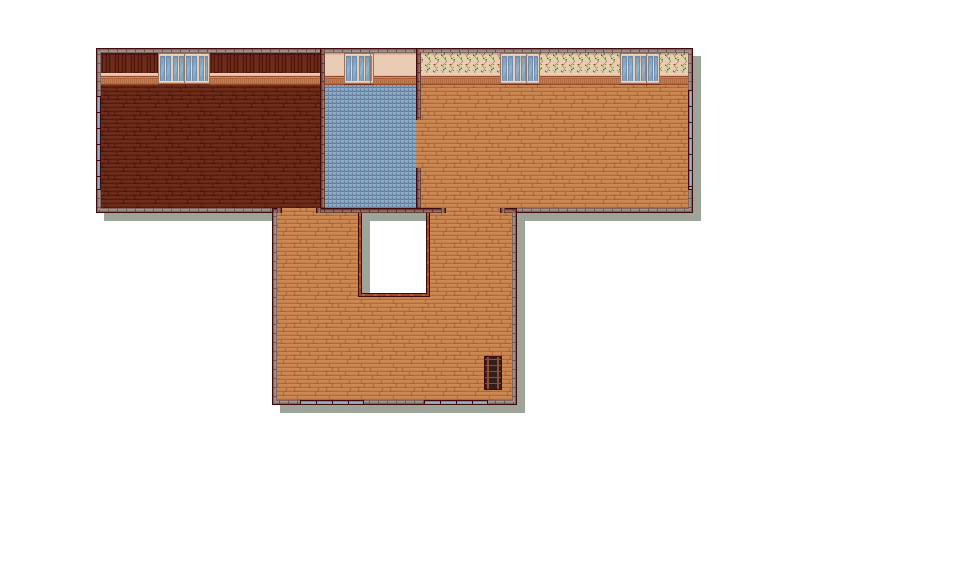
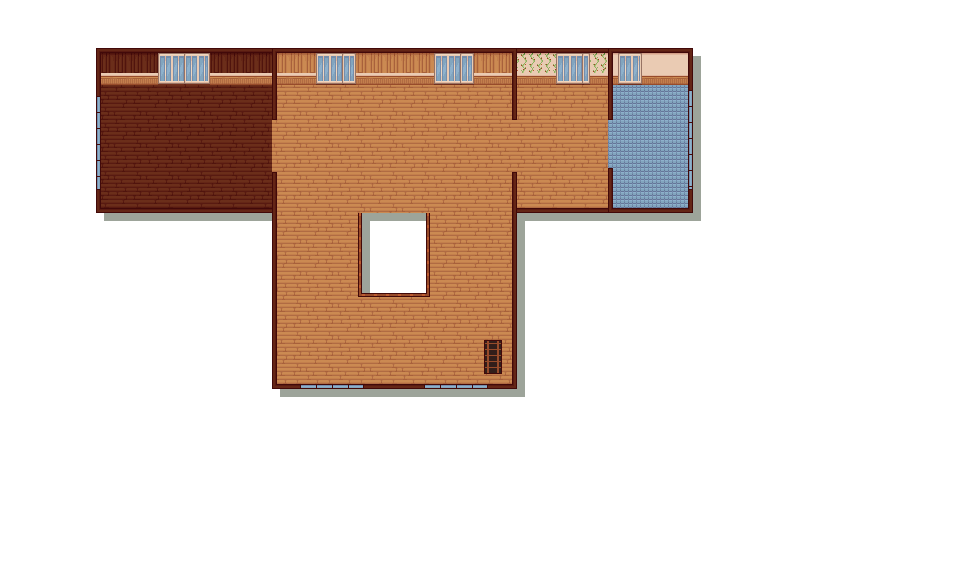
Put both floors on one grid, with the pack's own walls
The walls didn't make sense: the back row's partitions, the front row's
and upstairs' each stood on different lines, so upper walls stood over
the middle of rooms below; doorways through a back wall were floor
strips with stone pillars down the face; and the walls were grey and
brown stone bands with mortar ticks, not Cosy Cabin's.

Now every wall sits on one grid (columns 6, 17, 32, 43; rows 3, 13, 24)
and upstairs walls stand on ground walls:

- Ground: café, kitchen and counter, cat lounge across the back; craft
  room (with its bay), entrance hall (no longer jutting) and terrace
  across the front.
- Upstairs, over the back: library over the café, an open landing over
  the kitchen and hall (the stairwell and attic ladder), and the bedroom
  over the lounge with the ensuite partitioned off it. The craft room
  and terrace stay single-storey.

Walls are the pack's dark wood wall (sampled from its tile, outlined on
both edges). Doorways cut through cleanly and are capped with the wall's
outline, and every room has a back wall, so none meets a bare edge. The
furniture is re-laid for the rooms that moved; check() finds nothing
standing in furniture or off a floor.

Claude-Session: https://claude.ai/code/session_01TKgtJu9LeJJuw2MABkgriD

Changed region(s): [[0.0938, 0.0625, 0.7188, 0.7188]]

diff --git a/catio/tools/manor.py b/catio/tools/manor.py
@@ -1,19 +1,26 @@
-"""The manor's floor plans: two floors of a refurbished stone house, drawn from Cosy Cabin alone (committable).
+"""The manor's floor plans: two floors of a refurbished house, drawn from Cosy Cabin alone (committable).
 
-Layout, in 16 px tiles (the page's MANOR block carries these numbers; see furniture.py):
+Both floors stand on one grid, in 16 px tiles (the page's MANOR block carries these numbers; see furniture.py):
 
-    ground (the cat café)   café | kitchen & counter | cat lounge
-                            craft room (bay window) | entrance hall (the stair) | terrace (glazed)   catio, outdoors
-    upper (her quarters)    library (the brain) | ensuite | bedroom
-                                          landing (over the hall)
+    columns  x = 6 | 17 | 32 | 43        rows  y = 3 | 13 | 24
 
-It runs from public to private, the way houses and game levels both do. The front door opens into the hall, with
-the counter straight ahead (where you order), the café to the left and the cat lounge to the right. The craft room
-is the Montfortoise shop, so its bay window is its shop window on the drive, at the bottom left. The terrace is the
-café's glass verrière, and the catio is fenced against it at the bottom right, reached by the cat flap. The one
-stair rises from the middle of the hall to the landing, in the same place on both floors, so going up never moves
-the camera. Upstairs covers the back range and the landing. The craft room and the terrace are single-storey
-wings, and the page shows the ground floor faded under them.
+    ground (the cat café)   café         | kitchen & counter | cat lounge
+                            craft room   | entrance hall     | terrace (glazed)     catio, outdoors
+                            (bay window)   (the stair, the front door)
+    upper (her quarters)    library      | landing           | bedroom | ensuite
+                                           (over the hall)
+
+Every upstairs wall stands on a ground-floor wall, except the ensuite's, a light partition inside the bedroom's
+bay. It runs from public to private, the way houses and game levels both do. The front door opens into the hall,
+with the counter straight ahead (where you order) behind the stair, the shop's craft room on one side and the
+terrace on the other. The craft room's bay window is its shop window on the drive, at the bottom left; the catio is
+fenced against the terrace at the bottom right, reached by the cat flap. The one stair rises from the middle of the
+hall to an open landing over the kitchen, in the same place on both floors, so going up never moves the camera.
+The craft room and the terrace are single-storey wings, and the page shows the ground floor faded under them.
+
+The walls are the pack's own: its dark wood wall, a 5 px profile outlined on both edges, capped where a doorway
+opens in it. Every room has a back wall (paper, panelling or stone above a rail), so a doorway in a back wall is a
+clean cut through it.
 
 This module is the shell only: floors, back walls, walls, doorways and glass. Furniture is placed as pieces by
 the page (furniture.py).
@@ -24,27 +31,26 @@ T = 16
 FACE = 32                       # a back wall, ceiling to floor
 SIZE = (60 * T, 36 * T)         # the whole grounds, native pixels
 
-# walls: 5 px bands, outer to inner. Outside walls are the pack's grey stone, inside ones its warm stone.
-STONE_OUT = [(65, 9, 9), (121, 101, 98), (152, 134, 129), (165, 149, 143), (121, 101, 98)]
-STONE_IN = [(65, 9, 9), (102, 63, 57), (134, 98, 86), (151, 115, 100), (102, 63, 57)]
-MORTAR_OUT, MORTAR_IN = (105, 86, 83), (88, 52, 46)
+# a wall, edge to edge: Cosy Cabin's dark wood wall tile, outline, face, face, shade, outline
+WALL = [(65, 9, 9), (100, 38, 22), (100, 38, 22), (88, 26, 17), (65, 9, 9)]
+EDGE = WALL[0]
 GLASS = [(65, 9, 9), (116, 141, 172), (142, 177, 204), (130, 165, 190), (65, 9, 9)]
 WOOD = [(65, 9, 9), (107, 46, 26), (151, 75, 42), (188, 91, 48)]        # the balustrade and the attic ladder
 SASH = (946, 354, 28, 18)       # Cosy Cabin's cream sash window, on the objects sheet
 
-# key: floor, tile box (x0, y0, x1, y1), floor, back wall (None: floor to the top, as in a glass room)
+# key: floor, tile box (x0, y0, x1, y1), floor, back wall
 ROOMS = {
-    "dining":  ("ground", (6, 3, 19, 13), "wood", "paper32"),          # the café: pale boards, blue stripes
-    "kitchen": ("ground", (19, 3, 29, 13), "pink", "paper16"),         # the counter: terracotta tiles, poppy paper
-    "living":  ("ground", (29, 3, 43, 13), "wood", "paper64"),         # the cat lounge: boards, damask
+    "dining":  ("ground", (6, 3, 17, 13), "wood", "paper32"),          # the café: pale boards, blue stripes
+    "kitchen": ("ground", (17, 3, 32, 13), "pink", "paper16"),         # the counter: terracotta tiles, poppy paper
+    "living":  ("ground", (32, 3, 43, 13), "wood", "paper64"),         # the cat lounge: boards, damask
     "study":   ("ground", (6, 13, 17, 24), "wood", "stone_brown"),     # the craft room: the old brick, bay window
-    "hall":    ("ground", (17, 13, 32, 25), "stone", "stone_white"),   # stone flags, the old white stone left bare
-    "sunroom": ("ground", (32, 13, 43, 24), "sand", None),             # the terrace: sandstone under glass
-    "brain":   ("upper", (6, 3, 20, 13), "dark", "panel_dark"),        # the library: dark boards, panelled
-    "bath":    ("upper", (20, 3, 26, 13), "blue", "paper0"),           # the ensuite
-    "bedroom": ("upper", (26, 3, 43, 13), "wood", "paper48"),          # vines
+    "hall":    ("ground", (17, 13, 32, 24), "stone", "stone_white"),   # stone flags, the old white stone left bare
+    "sunroom": ("ground", (32, 13, 43, 24), "sand", "stone_white"),    # the terrace: sandstone, glass on two sides
+    "brain":   ("upper", (6, 3, 17, 13), "dark", "panel_dark"),        # the library: dark boards, panelled
+    "bedroom": ("upper", (32, 3, 38, 13), "wood", "paper48"),          # vines
+    "bath":    ("upper", (38, 3, 43, 13), "blue", "paper0"),           # the ensuite, partitioned off the bedroom
 }
-LANDING = (17, 13, 32, 25)      # upstairs over the hall: not a room, just the way between them
+LANDING = (17, 3, 32, 24)       # upstairs over the kitchen and the hall: not a room, the way between them
 BAY = (9, 24, 14, 26)           # the craft room's canted bay, merged into it
 CHAMFER = 12                    # the bay's corners, cut at 45 degrees
 CATIO = (43, 11, 57, 29)        # outdoors: decking fenced against the terrace, reached by the cat flap
@@ -54,40 +60,40 @@ FRONT_DOOR = (378, 410)         # x span in the hall's south wall
 # doorways: ("v", wall tile x, y from, y to) through a side wall; ("h", wall tile y, x from, x to) through a back wall
 DOORS = {
     "ground": [
-        ("v", 19, 120, 172),    # café <-> counter (the servery)
-        ("v", 29, 120, 172),    # counter <-> cat lounge
+        ("v", 17, 120, 172),    # café <-> kitchen (the servery)
+        ("v", 32, 120, 172),    # kitchen <-> cat lounge
         ("h", 13, 150, 196),    # café -> craft room
-        ("h", 13, 318, 350),    # hall -> counter, west of the stair
-        ("h", 13, 474, 508),    # hall -> cat lounge, east of it
+        ("h", 13, 296, 336),    # hall -> kitchen, west of the stair
+        ("h", 13, 452, 492),    # hall -> kitchen, east of it
         ("h", 13, 560, 640),    # cat lounge -> terrace, wide open
         ("v", 17, 290, 340),    # craft room <-> hall (the shop's door)
         ("v", 32, 290, 340),    # hall <-> terrace
     ],
     "upper": [
-        ("h", 13, 282, 316),    # landing -> library
-        ("h", 13, 446, 500),    # landing -> bedroom
-        ("v", 26, 120, 168),    # bedroom <-> ensuite
+        ("v", 17, 120, 172),    # landing <-> library
+        ("v", 32, 120, 172),    # landing <-> bedroom
+        ("v", 38, 120, 168),    # bedroom <-> ensuite
     ],
 }
 # glass: ("tall", x, y, w) floor-to-ceiling on a back wall; ("v", wall x, y0, y1) and ("h", wall y, x0, x1) strips
 WINDOWS = {
     "ground": [
-        ("tall", 150, 53, 60),                                  # café
-        ("tall", 360, 53, 40),                                  # the counter, over the sink
-        ("tall", 500, 53, 40), ("tall", 616, 53, 40),           # cat lounge, either side of the fireplace
+        ("tall", 156, 53, 60),                                  # café
+        ("tall", 374, 53, 40),                                  # the counter, over the sink
+        ("tall", 526, 53, 36), ("tall", 642, 53, 36),           # cat lounge, either side of the fireplace
         ("v", 6, 96, 176),                                      # café west
         ("v", 6, 250, 360),                                     # craft room west
-        ("h", 25, 300, 364), ("h", 25, 424, 488),               # hall south, either side of the front door
+        ("h", 24, 300, 364), ("h", 24, 424, 488),               # hall south, either side of the front door
         ("h", 24, 530, 680),                                    # terrace south
-        ("v", 43, 214, 290), ("v", 43, 336, 384),               # terrace east, broken by the cat flap
+        ("v", 43, 214, 290), ("v", 43, 336, 380),               # terrace east, broken by the cat flap
         ("v", 43, 90, 190),                                     # cat lounge east, over the catio
     ],
     "upper": [
         ("tall", 158, 53, 52), ("v", 6, 96, 190),               # library, between the bookcases
-        ("tall", 344, 53, 30),                                  # ensuite
-        ("tall", 500, 53, 40), ("tall", 620, 53, 40),           # bedroom
-        ("v", 43, 90, 190),                                     # bedroom east, over the catio
-        ("h", 25, 300, 364), ("h", 25, 424, 488),               # landing, over the front door
+        ("tall", 316, 53, 40), ("tall", 434, 53, 40),           # the landing's back wall
+        ("tall", 556, 53, 34),                                  # bedroom
+        ("tall", 618, 53, 24), ("v", 43, 90, 190),              # ensuite, and its window over the catio
+        ("h", 24, 300, 364), ("h", 24, 424, 488),               # landing, over the front door
     ],
 }
 CAT_FLAP = (688, 312, 328)      # x of the terrace's east wall, y span
@@ -102,7 +108,7 @@ def boxes(floor):
     """Every walled box on a floor: its rooms, and upstairs the landing."""
     out = {k: (box, fl, wall) for k, (f, box, fl, wall) in ROOMS.items() if f == floor}
     if floor == "upper":
-        out["landing"] = (LANDING, "wood", None)
+        out["landing"] = (LANDING, "wood", "panel_light")
     return out
 
 
@@ -181,14 +187,6 @@ def shell(tm, objects, ex, floor="ground"):
         t = tex[name]
         px[x, y] = t.getpixel((x % t.width, y % t.height))
 
-    def inside(x, y):
-        """Is this native pixel inside some box on this floor (walls included), or in the bay?"""
-        for box, _, _ in rooms.values():
-            X0, Y0, X1, Y1 = box_px(box)
-            if X0 <= x < X1 and Y0 <= y < Y1:
-                return True
-        return bool(bay) and in_poly(x, y, bay)
-
     # floors, and each room's back wall: paper (20 px) over a rail (12 px), or panelling/stone the full height
     for name, (box, fl, wall) in rooms.items():
         X0, Y0, X1, Y1 = box_px(box)
@@ -204,20 +202,14 @@ def shell(tm, objects, ex, floor="ground"):
                 else:
                     fill(x, y, fl)
                     floor_at[(x // T, y // T)] = fl
-    # walls: a mitred 5 px band round each box, grey stone where the other side is outdoors
+    # walls: the pack's 5 px wood wall round each box, mitred at the corners; neighbours share theirs
     for box, _, _ in rooms.values():
         X0, Y0, X1, Y1 = box_px(box)
         for x in range(X0, X1):
             for y in range(Y0, Y1):
                 d = min(x - X0, X1 - 1 - x, y - Y0, Y1 - 1 - y)
-                if d >= 5:
-                    continue
-                side = [(x - X0, (-6, 0)), (X1 - 1 - x, (6, 0)), (y - Y0, (0, -6)), (Y1 - 1 - y, (0, 6))]
-                _, (dx, dy) = min(side, key=lambda s: s[0])
-                out = not inside(x + dx, y + dy)
-                band, mortar = (STONE_OUT, MORTAR_OUT) if out else (STONE_IN, MORTAR_IN)
-                along = y if dx else x
-                px[x, y] = mortar if 1 <= d <= 3 and along % 9 == 0 else band[d]
+                if d < 5:
+                    px[x, y] = WALL[d]
 
     # the bay: the craft room's floor runs out into it through the south wall; glass on its three faces
     if bay:
@@ -246,23 +238,22 @@ def shell(tm, objects, ex, floor="ground"):
                     return f
         return "wood"
 
+    # doorways: the floor runs through the wall, and the wall's cut ends are capped with its outline. Through a
+    # back wall the cut goes down the room's wall face too, edged the same way: a doorway, not a corridor.
     for kind, w, a, b in DOORS[floor]:
         if kind == "v":
             for x in range(w * T, w * T + 5):
                 for y in range(a, b):
                     fill(x, y, floor_near(x, y))
+                px[x, a - 1] = px[x, b] = EDGE
         else:
             y0 = w * T
             fl = floor_near((a + b) // 2, y0 + FACE + 8)
-            below = [wl for bx, _, wl in rooms.values() if box_px(bx)[0] <= a < box_px(bx)[2] and box_px(bx)[1] <= y0 + 8 < box_px(bx)[3]]
-            deep = 5 + (FACE if below and below[0] else 0)          # through the back wall below, if it has one
             for x in range(a, b):
-                for y in range(y0, y0 + deep):
+                for y in range(y0, y0 + 5 + FACE):
                     fill(x, y, fl)
-            for y in range(y0, y0 + deep):
-                for i in range(5):
-                    px[a - 5 + i, y] = STONE_IN[4 - i]
-                    px[b + i, y] = STONE_IN[i]
+            for y in range(y0, y0 + 5 + FACE):
+                px[a - 1, y] = px[b, y] = EDGE
     for kind, *a in WINDOWS[floor]:
         if kind == "tall":
             x, y, w = a

diff --git a/catio/tools/furniture.py b/catio/tools/furniture.py
@@ -146,32 +146,33 @@ LAYOUT = {
     # Café: tables where people sit, beside the counter; business plans round the big one (cats at its south chairs
     # are working, the queen at its east end), a two-top by the window, a sideboard, the filing cabinet
     "dining": [
-        ("filing_cabinet", 108, 72), ("sideboard", 230, 72), ("sunflower", 266, 66),
-        ("dining_table", 150, 120),
-        ("chair_front_decor", 157, 102), ("chair_front_decor", 179, 102),
-        ("chair_right", 134, 123), ("chair_left_queen", 202, 123),
-        ("chair_back_work", 157, 146), ("chair_back_work", 179, 146),
-        ("writing_desk", 240, 130), ("chair_front_decor", 249, 114),
-        ("runner_yellow", 120, 186), ("cushion_green", 270, 190),
+        ("filing_cabinet", 106, 72), ("sideboard", 226, 72), ("sunflower", 256, 66),
+        ("dining_table", 140, 120),
+        ("chair_front_decor", 147, 102), ("chair_front_decor", 169, 102),
+        ("chair_right", 124, 123), ("chair_left_queen", 192, 123),
+        ("chair_back_work", 147, 146), ("chair_back_work", 169, 146),
+        ("writing_desk", 226, 130), ("chair_front_decor", 235, 114),
+        ("runner_yellow", 112, 186), ("cushion_green", 240, 190),
     ],
-    # Kitchen and counter: the run under the window (fridge, drawers, the sink, the hob, a pantry), the counter
-    # facing the hall where you order (cats at it are working), the cats' bowls and food bag, a runner, a cushion
+    # Kitchen and counter, straight ahead from the front door behind the stair: the run under the window (fridge,
+    # drawers, the sink, the hob, a pantry), the counter facing the hall where you order (cats at it are working),
+    # the cats' bowls and food bag, a runner, a cushion
     "kitchen": [
-        ("fridge", 316, 58), ("counter_drawers", 332, 73), ("counter", 348, 73), ("counter_door", 364, 73),
-        ("hob", 380, 73), ("counter", 396, 73), ("pantry", 414, 56), ("filing_cabinet", 436, 73),
-        ("sink", 350, 75),
-        ("island", 360, 140), ("island", 376, 140), ("island", 392, 140), ("chair_front", 340, 136),
-        ("bowl_food", 430, 150), ("bowl_water", 430, 172), ("food_bag", 412, 150),
-        ("runner_blue", 322, 184), ("cushion_orange", 440, 192),
+        ("fridge", 330, 58), ("counter_drawers", 346, 73), ("counter", 362, 73), ("counter_door", 378, 73),
+        ("hob", 394, 73), ("counter", 410, 73), ("pantry", 428, 56), ("filing_cabinet", 450, 73),
+        ("sink", 364, 75),
+        ("island", 370, 140), ("island", 386, 140), ("island", 402, 140), ("chair_front", 340, 136),
+        ("bowl_food", 470, 150), ("bowl_water", 470, 172), ("food_bag", 452, 150),
+        ("runner_blue", 290, 184), ("cushion_orange", 300, 110),
     ],
     # Cat lounge, where new cats come in: the fireplace between two tall windows, armchairs either side of the
     # hearth rug, a sofa facing it (a cat asleep on it), a cat tree to climb (working), cushions
     "living": [
-        ("fireplace", 562, 53), ("rug_red_diamond", 554, 120),
-        ("armchair_blue_r", 522, 122), ("armchair_blue_l", 612, 122),
-        ("sofa_blue_back", 558, 156), ("cat_tree", 640, 100),
-        ("filing_cabinet", 474, 73), ("plant_pampas", 650, 56),
-        ("cushion_white", 500, 180), ("cushion_blue", 600, 186),
+        ("fireplace", 586, 53), ("rug_red_diamond", 578, 120),
+        ("armchair_blue_r", 540, 124), ("armchair_blue_l", 616, 124),
+        ("sofa_blue_back", 582, 156), ("cat_tree", 646, 112),
+        ("filing_cabinet", 522, 73),
+        ("cushion_white", 524, 180), ("cushion_blue", 560, 190),
     ],
     # Craft room, the shop: shelves of supplies and books against the old brick, the big worktable with yarn and a
     # tin of buttons (working), a sewing desk (working too), the supply chest, and a cushion in the bay window
@@ -184,17 +185,17 @@ LAYOUT = {
     # Entrance hall: the stair up the middle to the landing, the front door's mat (cats who need you wait there),
     # a writing desk and the queen's chair to the west, the filing cabinet and cat beds to the east
     "hall": [
-        ("stairs", 362, 213), ("door_mat", 379, 388), ("rug_red_diamond", 370, 320),
-        ("lamp_floor", 345, 258), ("lamp_floor", 432, 258), ("plant_pampas", 285, 250), ("plant_snake", 284, 366),
-        ("writing_desk", 290, 350), ("armchair_pink", 330, 352),
-        ("filing_cabinet", 490, 350), ("cushion_blue", 450, 320), ("cushion_orange", 455, 360),
+        ("stairs", 362, 213), ("door_mat", 379, 372), ("rug_red_diamond", 370, 310),
+        ("lamp_floor", 345, 258), ("lamp_floor", 432, 258), ("plant_pampas", 284, 250), ("plant_snake", 284, 350),
+        ("writing_desk", 300, 330), ("armchair_pink", 336, 334),
+        ("filing_cabinet", 480, 334), ("cushion_blue", 450, 300), ("cushion_orange", 455, 345),
     ],
     # Terrace, the café's glass verrière: a table in the light and a chair for the queen, a two-top, the scratching
     # post, plants all round; the cat flap to the catio stays clear
     "sunroom": [
-        ("palm", 522, 216), ("monstera", 650, 214), ("scratching_post", 650, 244),
-        ("garden_table", 560, 260), ("garden_chair", 604, 280),
-        ("writing_desk", 620, 336), ("fiddle_fig", 664, 340), ("fern", 530, 300),
+        ("palm", 522, 232), ("monstera", 650, 230), ("scratching_post", 650, 258),
+        ("garden_table", 560, 262), ("garden_chair", 604, 282),
+        ("writing_desk", 620, 336), ("fiddle_fig", 664, 338), ("fern", 530, 300),
         ("runner_green", 560, 350), ("cushion_white", 525, 362),
     ],
     # Catio, outdoors at the bottom right: the chest (its filing cabinet), a cat tree (working), a table and chair
@@ -205,33 +206,34 @@ LAYOUT = {
         ("garden_table", 760, 330), ("garden_chair", 805, 350),
         ("cushion_orange", 860, 400), ("fern", 880, 420),
     ],
-    # Library, the brain, upstairs: bookcases along the back wall either side of a tall window, the brain's desk
-    # (a cat at it is working), its chest where dropped files land, a reading chair for the queen, a rug
+    # Library, the brain, upstairs over the café: bookcases either side of a tall window, the brain's desk (a cat at
+    # it is working), its chest where dropped files land, a reading chair for the queen, a rug
     "brain": [
-        ("bookcase_dark_books", 102, 48), ("bookcase_dark_books", 214, 48), ("bookcase_red_books", 266, 48),
-        ("armchair_blue", 120, 120), ("lamp_floor", 146, 114),
-        ("brain_desk", 170, 120), ("chair_back", 188, 146), ("brain_chest", 240, 150),
-        ("filing_cabinet", 290, 120), ("rug_blue_diamond", 130, 170), ("cushion_green", 262, 186),
+        ("bookcase_dark_books", 102, 48), ("bookcase_red_books", 214, 48),
+        ("armchair_blue", 110, 120), ("lamp_floor", 136, 114),
+        ("brain_desk", 160, 120), ("chair_back", 178, 146), ("brain_chest", 224, 150),
+        ("filing_cabinet", 250, 120), ("rug_blue_diamond", 120, 170), ("cushion_green", 236, 186),
     ],
-    # Ensuite: the toilet, a basin under its mirror, a shower with its mat (the queen stands on it), a towel, a
-    # plant, a cushion; the door to the bedroom stays clear
+    # Ensuite, partitioned off the bedroom: a basin under its mirror, a shower with its mat (the queen stands on
+    # it), the toilet, a plant, a cushion; the door from the bedroom stays clear
     "bath": [
-        ("mirror_small", 382, 56), ("basin", 381, 76), ("shower", 400, 56), ("towel", 330, 62),
-        ("bath_mat", 398, 96), ("toilet", 330, 80),
-        ("plant_bath", 330, 170), ("cushion_white", 360, 186),
+        ("mirror_small", 648, 56), ("basin", 647, 76), ("shower", 670, 56),
+        ("bath_mat", 668, 96), ("toilet", 668, 130),
+        ("plant_bath", 618, 180), ("cushion_white", 640, 186),
     ],
-    # Bedroom (legal questions, kept quiet): the bed between the windows (a cat asleep on it), nightstands, a
-    # dresser, the filing cabinet, a chest at the bed's foot, a desk to work at, a reading chair for the queen
+    # Bedroom (legal questions, kept quiet), over the cat lounge: the bed between nightstands under the window (a cat
+    # asleep on it), the filing cabinet, a rug, a reading chair for the queen; the doors to the landing and the
+    # ensuite stay clear
     "bedroom": [
-        ("nightstand", 542, 72), ("bed", 560, 62), ("nightstand", 594, 72), ("dresser", 440, 66),
-        ("filing_cabinet", 476, 66), ("foot_chest", 565, 112), ("writing_desk", 470, 130),
-        ("rug_blue_diamond", 552, 140), ("armchair_pink", 640, 120), ("plant_snake", 668, 170),
-        ("cushion_orange", 440, 170),
+        ("nightstand", 542, 72), ("bed", 560, 62), ("nightstand", 592, 72),
+        ("filing_cabinet", 522, 66), ("rug_blue_diamond", 540, 150), ("armchair_pink", 580, 168),
+        ("cushion_orange", 524, 184),
     ],
-    # the landing: plants, a lamp and a rug round the stairwell (the attic ladder is drawn in the shell)
+    # the landing, open over the kitchen and the hall: plants by its windows, a lamp and a rug by the stairwell (the
+    # attic ladder is drawn in the shell)
     "landing": [
-        ("plant_pampas", 285, 220), ("plant_snake", 500, 222), ("lamp_floor", 300, 360),
-        ("rug_red_diamond", 370, 330),
+        ("plant_pampas", 285, 88), ("plant_snake", 495, 95), ("lamp_floor", 300, 300),
+        ("rug_red_diamond", 370, 320), ("runner_blue", 380, 150),
     ],
 }
 
@@ -353,7 +355,8 @@ def floor_of(room):
     if room == "garden":
         x0, y0, x1, y1 = manor.CATIO
         return x0 * manor.T + 8, y0 * manor.T + 16, x1 * manor.T - 4, y1 * manor.T - 8
-    box, wall = (manor.LANDING, None) if room == "landing" else (manor.ROOMS[room][1], manor.ROOMS[room][3])
+    level = "upper" if room == "landing" else manor.ROOMS[room][0]
+    box, _, wall = manor.boxes(level)[room]
     X0, Y0, X1, Y1 = manor.box_px(box)
     return X0 + 5, Y0 + 5 + (manor.FACE if wall else 0), X1 - 5, Y1 - 5
 
